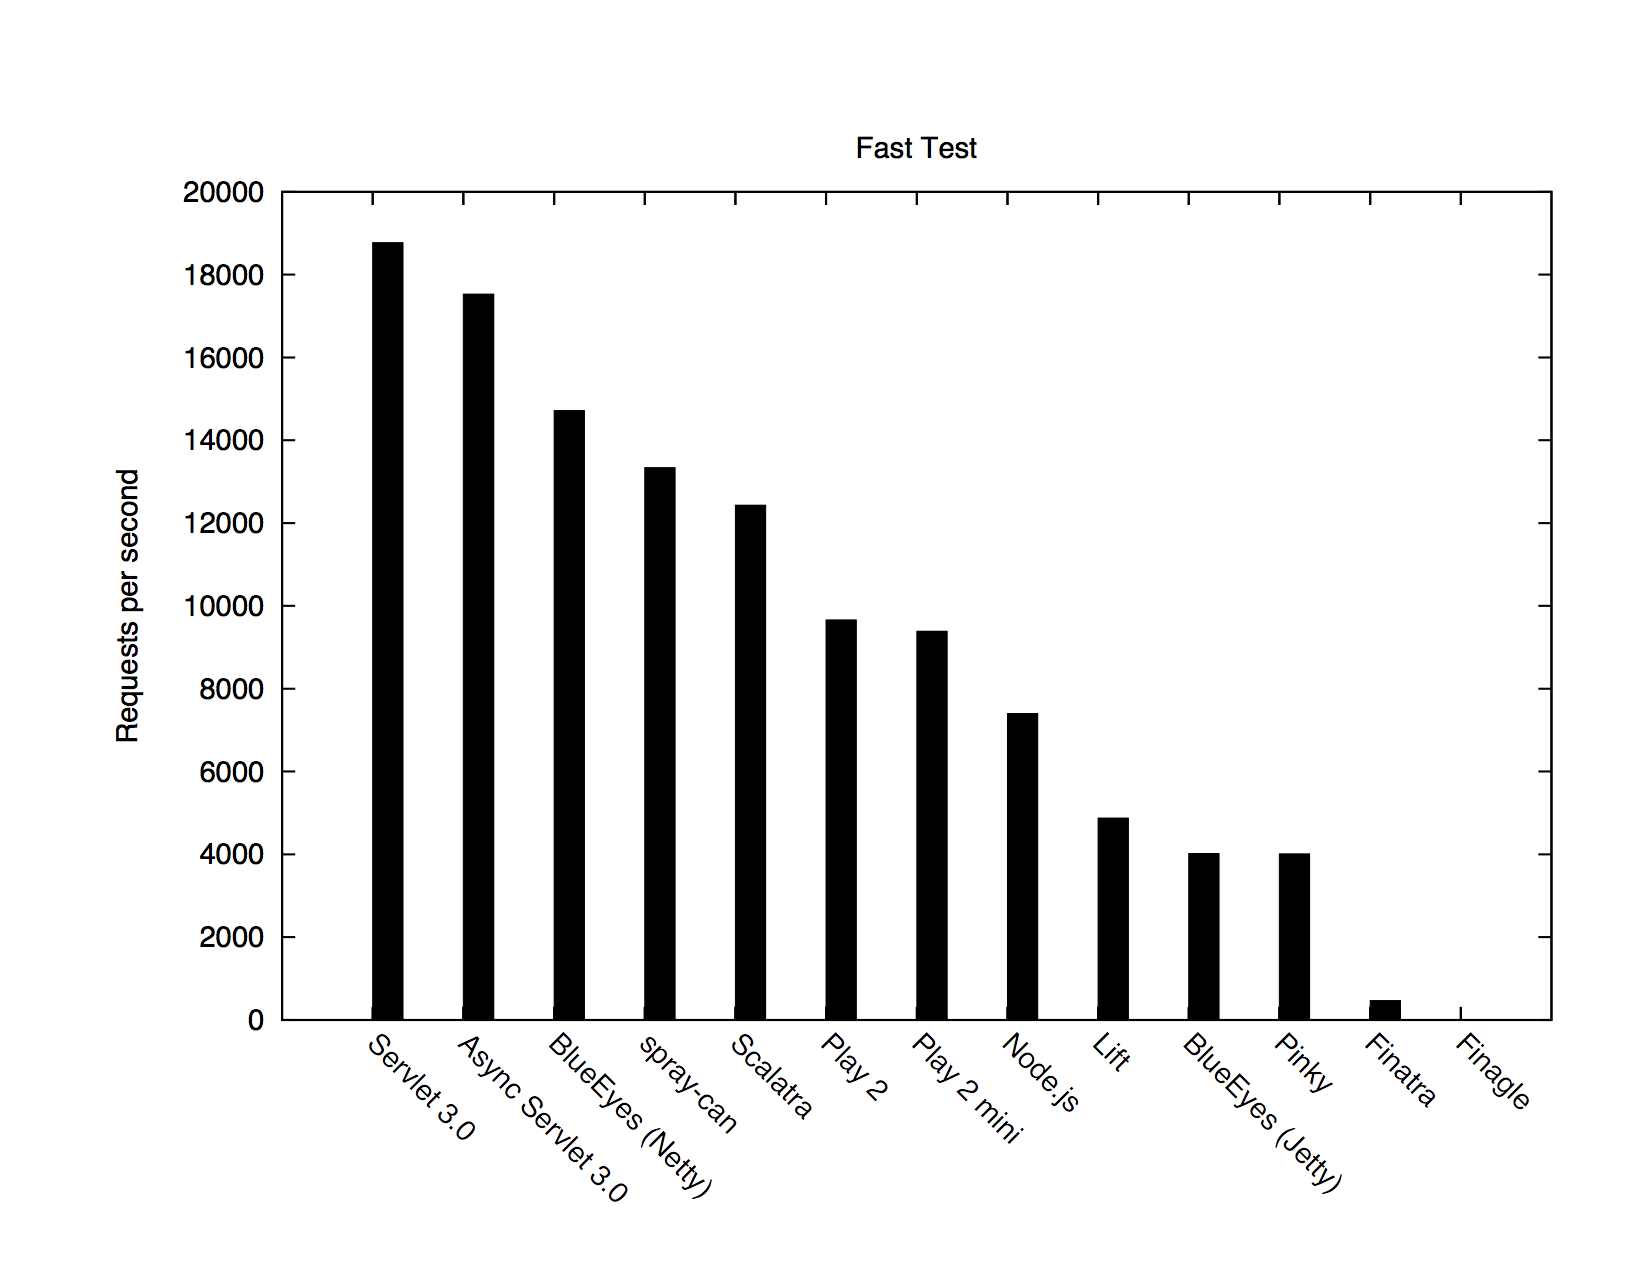
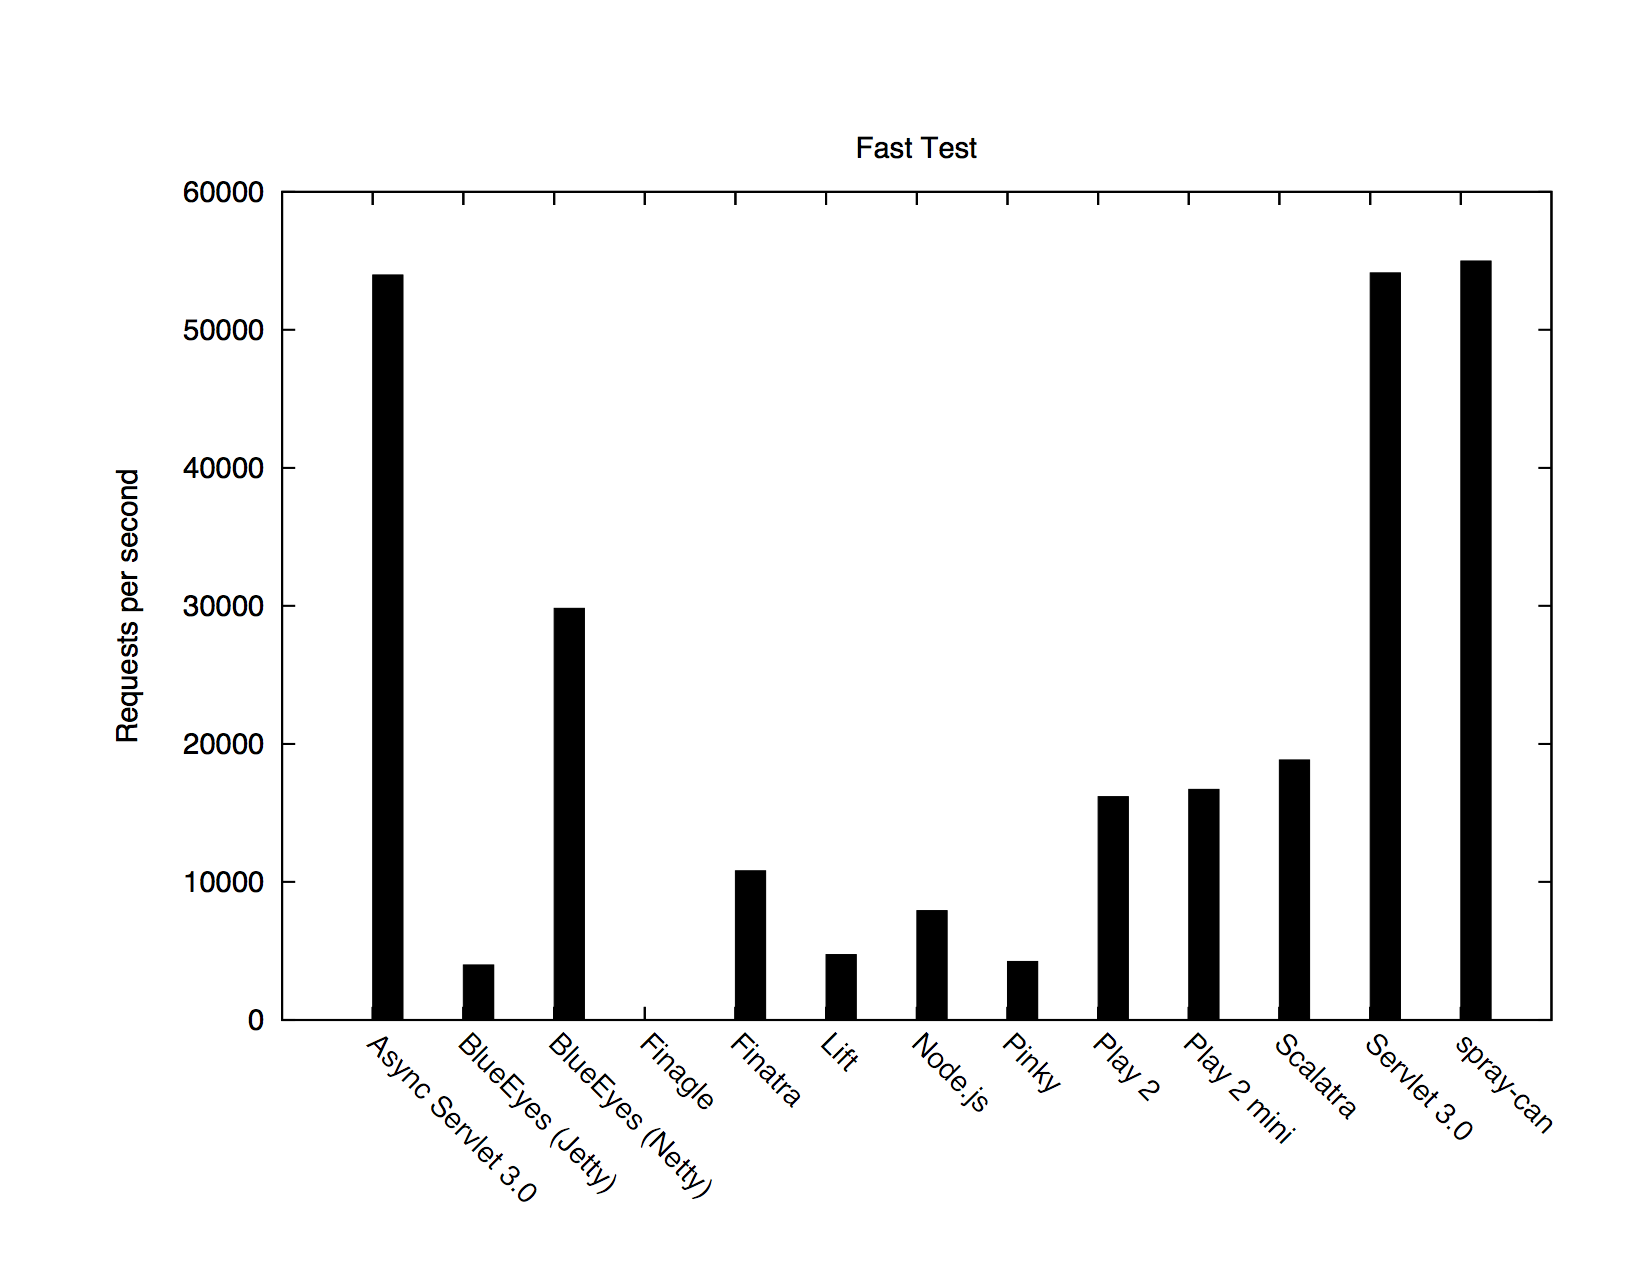
switch to weighttp for testing

diff --git a/README.md b/README.md
@@ -10,7 +10,7 @@ Each implementation exposes the same three endpoints:
 
 Each endpoint responds with `<h1>slept for { duration } ms</h1>`, where `duration` is the actual amount of time spent blocking.
 
-Each implementation runs on `localhost:9000` and can be tested with a variety of tools, such as [ApacheBench](http://en.wikipedia.org/wiki/ApacheBench) or [JMeter](http://jmeter.apache.org/).
+Each implementation runs on `localhost:9000` and can be tested with a variety of tools, such as [weighttp](https://github.com/lighttpd/weighttp) or [JMeter](http://jmeter.apache.org/).
 
 # Test results
 
@@ -44,7 +44,7 @@ https://github.com/harrah/xsbt/wiki/Getting-Started-Setup
 
 ## Run and test each implementation
 
-Each server can be tested with JMeter or ApacheBench:
+Each server can be tested with JMeter or weighttp:
 
 ```
 jmeter -n -t scamper/load-test.jmx
@@ -52,7 +52,7 @@ jmeter -n -t scamper/fast-test.jmx
 ```
 
 ```
-ab -c 5 -n 10000 127.0.0.1:9000/fast
+weighttp -n 500000 -c 20 -t 4 -k http://localhost:9000/fast
 ```
 
 ### [BlueEyes](https://github.com/jdegoes/blueeyes)
@@ -94,7 +94,7 @@ ab -c 5 -n 10000 127.0.0.1:9000/fast
 ### [spray-can](https://github.com/spray/spray-can)
 
 ```
-(cd scamper/spray-can ; sbt run)
+(cd scamper/spray ; sbt "project simple-http-server" run)
 ```
 
 ### [Servlet 3.0](http://jcp.org/aboutJava/communityprocess/final/jsr315/index.html)
